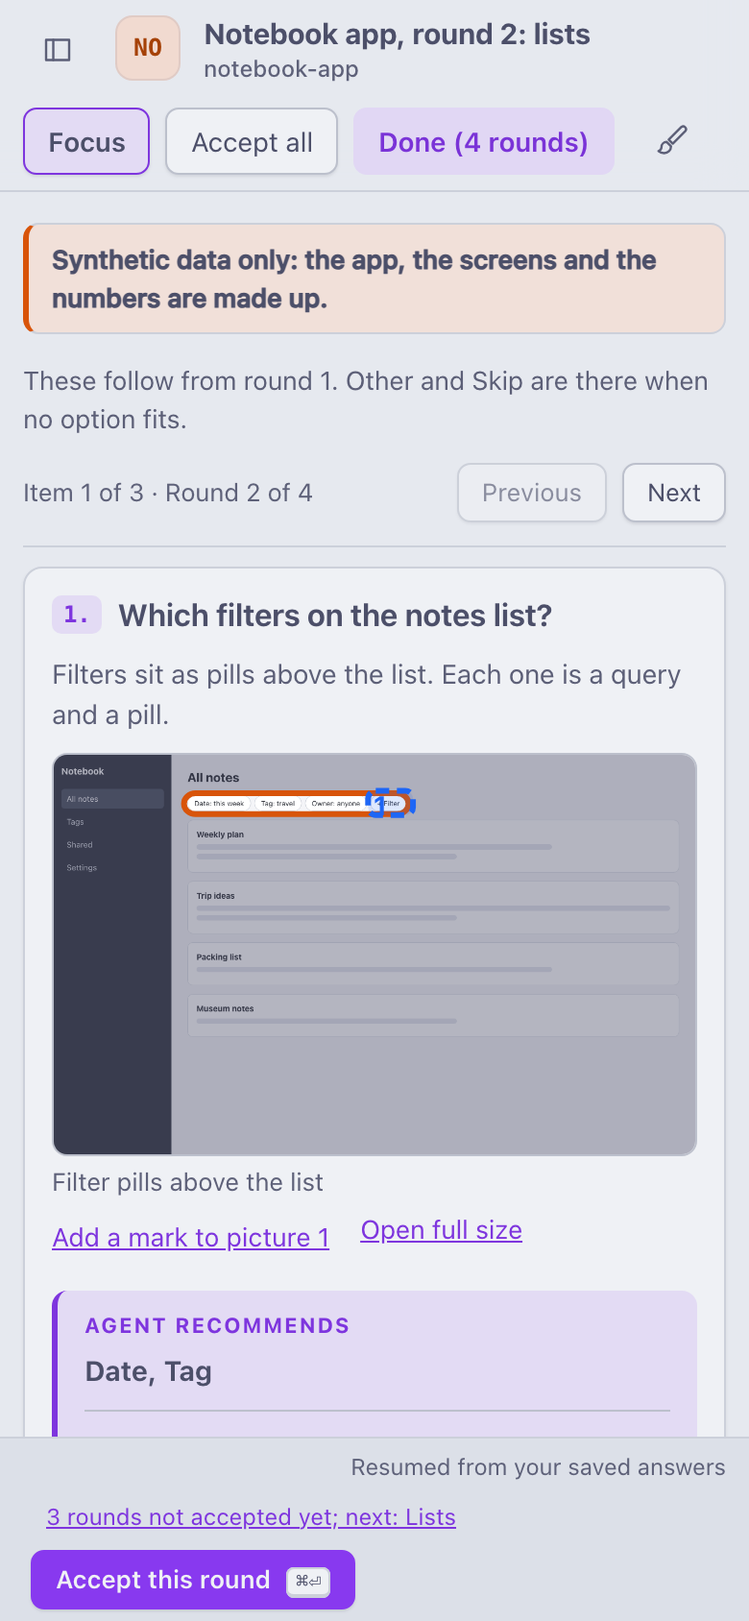
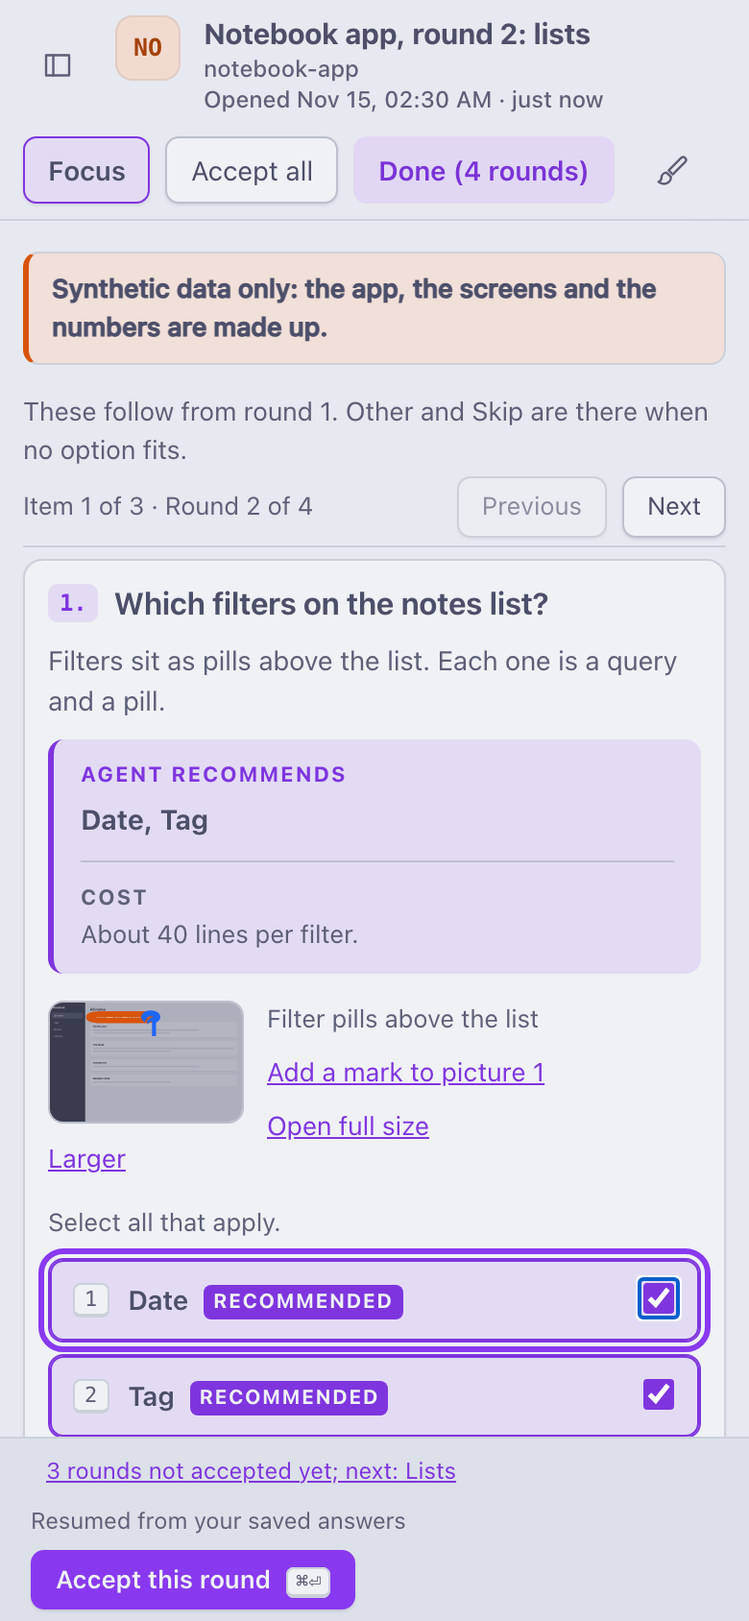
Put the question, the recommendation and the first option on a phone's first screen
On a phone in Focus an item now reads its question, the agent's
recommendation and cost, its commands, then its pictures as thumbnails,
then the options. CSS order does it (a flex fieldset, .q as
display:contents), so the DOM and Tab order stay as they were: the margin
holds nothing to tab to. Pictures that open full size are at most 180 px
high, two or more side by side. A picture that takes marks starts small
beside its caption, with a Larger / Smaller button (aria-expanded, its name
ending in the picture's number) that gives it the full width to draw on;
the button sits outside the mark tools, which Done disables. Wider screens
and a phone out of Focus are unchanged.

Decision: the user chose the toggle for pictures that take marks, so the
first option fits there too, over the CSS-only plan; the intro and the
notice stay on screen.

Decision: on a phone the round's title sits beside the project's monogram,
with the opening time on its own line. The title had wrapped onto a row of
its own and cost about 46 px. Not on the past-decisions page.

Decision: on a phone the key bar takes two rows, why Done waits first, then
the save state and Accept this round. Hungarian took three. The reason
moves up rather than Accept down, so focus order follows what is seen. Not
on the past-decisions page.

Context: measured at 390x844, main at scrollTop 0, the demo's round 2 in
a four-round folder, en and hu, with and without a project. The first
[…]

diff --git a/plugin/signoff/page.html b/plugin/signoff/page.html
@@ -207,6 +207,7 @@ button.icon svg{width:18px;height:18px}
 .marks .mark-num{fill:var(--mark);font:700 14px -apple-system,BlinkMacSystemFont,"Segoe UI",system-ui,sans-serif}
 .mark-tools{display:flex;gap:4px 16px;flex-wrap:wrap;font-size:13.5px}
 .mark-tools a{color:var(--accent)}
+.pic-size{display:none;justify-self:start;align-self:flex-start;font-size:13.5px}  /* shown on a phone in Focus */
 .mark-list .clabel{margin-top:14px}
 .mark-row{display:flex;flex-wrap:wrap;gap:8px;align-items:flex-start;margin:6px 0}
 .mark-row textarea{flex:1 1 200px;min-height:60px}
@@ -707,12 +708,40 @@ h3 .badge{margin:0;vertical-align:2px;white-space:nowrap}
 @media (max-width:760px){
   body.run>main{padding:0 12px 32px}
   body.run>header{flex-wrap:wrap}
+  body.run:not(.hist)>header .head-text{flex-basis:0}  /* beside the project's monogram, not on a row of its own */
+  body.run:not(.hist) #project{display:block;overflow:hidden;text-overflow:ellipsis;white-space:nowrap}  /* the time below */
+  body.run:not(.hist) #project:not(:empty)+#opened::before{content:none}
   body.run>header .actions{flex:1 0 100%;flex-wrap:wrap}
   body.run>header .progress{display:none}  /* the bar says which round waits */
   body.run .ib-fbar button:last-child{display:none}  /* Leave Focus: the pressed Focus button in the header */
   body.run .bar #status{order:0;flex:0 1 auto}
+  body.run:not(.hist) .bar #done-reason{order:-1;flex:1 0 100%}  /* two rows: why Done waits, then the state and Accept */
+  body.run:not(.hist) .bar .grow{order:1}
+  body.run:not(.hist) .bar .bar-acts{order:2}
   body.run .item{padding:14px}
-  body.run.focusing .rp:not(.at-start)>.context{display:none}}  /* with the first item only: the rest stay one screen */
+  body.run.focusing .ib-fbar{padding:4px 0}
+  body.run.focusing .item{margin-top:6px;padding:12px}
+  body.run.focusing .rp:not(.at-start)>.context{display:none}  /* with the first item only: the rest stay one screen */
+  /* Focus reads the question, the recommendation, then the commands and the pictures as thumbnails, so the
+     options start on the first screen. .margin holds nothing to tab to, so Tab still follows what is seen. */
+  body.run.focusing .item fieldset{display:flex;flex-direction:column}
+  body.run.focusing .item .q{display:contents}
+  body.run.focusing .item .desc{order:1}
+  body.run.focusing .item .margin{order:2;margin-top:0}
+  body.run.focusing .item .cmds{order:3}
+  body.run.focusing .item .shots{order:4;margin:0 0 10px;flex-flow:row wrap;align-items:flex-start}
+  body.run.focusing .item .b{order:5}
+  body.run.focusing .shots>figure{flex:1 1 100%}
+  body.run.focusing .shots>figure:not(.board):not(.marking){flex-basis:140px}
+  body.run.focusing .shots>figure:not(.board):not(.marking):not(:only-child){flex-grow:0}  /* two or more: small, in a row */
+  body.run.focusing .shots a.frame img{max-height:180px}
+  body.run.focusing figure.marking:not(.big){display:grid;grid-template-columns:minmax(0,30%) minmax(0,1fr);gap:4px 12px;
+    align-items:start}
+  body.run.focusing figure.marking:not(.big)>.frame{grid-column:1;grid-row:1/span 2}
+  body.run.focusing figure.marking:not(.big)>.mark-tools{grid-column:2;grid-row:2/span 2}
+  body.run.focusing figure.marking:not(.big)>.pic-size{grid-column:1;grid-row:3}
+  body.run.focusing figure.marking:not(.big) button.link{text-align:left}
+  body.run.focusing .pic-size{display:inline}}
 </style>
 </head>
 <body>
@@ -805,7 +834,9 @@ h3 .badge{margin:0;vertical-align:2px;white-space:nowrap}
       apOnly: 'This tab only: choose it in the inbox to open every Signoff page in it.',
       apFailed: 'Not kept: {m}', apOffline: 'Not kept: the inbox is not answering.', ownTheme: 'Signoff\'s own colours',
       attachMissing: 'Attachment not shown: {r}', lines: '{n} lines', line: '1 line', attachText: 'Attachment: {r}',
-      missing: 'Picture not shown: {r}', full: 'Open full size', addMark: 'Add a mark to picture {n}',
+      missing: 'Picture not shown: {r}', full: 'Open full size', larger: 'Larger', smaller: 'Smaller',
+      picture: 'picture {n}',
+      addMark: 'Add a mark to picture {n}',
       marks: 'Your marks', markHint: 'Draw a rectangle on a picture to point at something, or use the Add a mark button.',
       mark: 'Mark {n}', markOn: 'on picture {p}', markHandle: 'Mark {n} on picture {p}. Arrow keys move it, Shift and arrow keys resize it.',
       markComment: 'Comment on mark {n}', remove: 'Remove', noMarks: 'No marks.',
@@ -915,7 +946,9 @@ h3 .badge{margin:0;vertical-align:2px;white-space:nowrap}
       apOnly: 'Csak ezen a lapon. Válaszd ki az inboxban, és minden Signoff-oldal így nyílik.',
       apFailed: 'Nincs megtartva: {m}', apOffline: 'Nincs megtartva: az inbox nem válaszol.', ownTheme: 'a Signoff saját színei',
       attachMissing: 'A melléklet nem látható: {r}', lines: '{n} sor', line: '1 sor', attachText: 'Melléklet: {r}',
-      missing: 'A kép nem látható: {r}', full: 'Megnyitás teljes méretben', addMark: 'Jelölés hozzáadása a(z) {n}. képhez',
+      missing: 'A kép nem látható: {r}', full: 'Megnyitás teljes méretben', larger: 'Nagyobb', smaller: 'Kisebb',
+      picture: '{n}. kép',
+      addMark: 'Jelölés hozzáadása a(z) {n}. képhez',
       marks: 'A jelöléseid', markHint: 'Rajzolj téglalapot a képre, hogy megmutass valamit, vagy használd a Jelölés hozzáadása gombot.',
       mark: '{n}. jelölés', markOn: 'a(z) {p}. képen', markHandle: '{n}. jelölés a(z) {p}. képen. A nyilak mozgatják, a Shift és a nyilak átméretezik.',
       markComment: 'Megjegyzés a(z) {n}. jelöléshez', remove: 'Törlés', noMarks: 'Nincs jelölés.',
@@ -2543,7 +2576,19 @@ h3 .badge{margin:0;vertical-align:2px;white-space:nowrap}
       add.type = 'button';
       add.addEventListener('click', function () { addMark(ri, item, k, [40, 40, 20, 20]); });
       tools.append(add, full);
-      fig.append(tools);
+      // On a phone in Focus the picture starts small, so the options show; Larger gives it the width to draw on.
+      // Not in the tools: Done disables their buttons, and this one must still work then.
+      var size = el('button', 'link pic-size');
+      size.type = 'button';
+      var setSize = function (big) {  // the name says which picture: an item can have several
+        size.textContent = big ? L.smaller : L.larger;
+        size.setAttribute('aria-label', size.textContent + ': ' + fmt(L.picture, {n: k + 1}));
+        size.setAttribute('aria-expanded', String(big));
+      };
+      setSize(false);
+      size.addEventListener('click', function () { setSize(fig.classList.toggle('big')); });
+      fig.classList.add('marking');
+      fig.append(tools, size);
     }
     return fig;
   }

diff --git a/tests/e2e_browser.py b/tests/e2e_browser.py
@@ -8,7 +8,8 @@ single-use start link in headless Chrome over the DevTools protocol, and drives 
 First one round: a non-recommended pick and a comment, the summary block above Done quotes the comment and its
 filter works, Private (marked by the agent on one item, ticked by the user on the other) hides the comment in the
 summary and the Markdown copy, unticking the agent's mark survives a reload, one click on Done. A round done
-earlier shows Private without the untick hint. An item with criteria shows its facts as chips; the Cards / Table
+earlier shows Private without the untick hint. On a phone in Focus, the question, the recommendation and the first
+option of each demo item show before any scrolling. An item with criteria shows its facts as chips; the Cards / Table
 toggle shows the table, a pick there (by click and by number key) is saved and shows on the cards, and at 390 px
 the table scrolls in its own box. An attachment starts closed, opens on a click and shows the file's text
 exactly, with nothing rendered. The header names the project folder and the tab title starts with it; on the
@@ -312,6 +313,25 @@ ROUND_AGE = """(function () {
   return {time: t.checkVisibility() && t.textContent, datetime: t.dateTime, title: t.title,
     pill: p.checkVisibility() && p.textContent, note: !!n && n.checkVisibility() && n.textContent};
 })()"""
+# The item in Focus as it shows before any scrolling: main's box from the header's foot to the key bar's top, and
+# where the item's parts sit in it (null when the item has none).
+FIRST_SCREEN = """(function () {
+  var main = document.querySelector('body > main'), c = document.querySelector('.item.cur');
+  main.scrollTop = 0;
+  function box(e) { if (!e) return null; var r = e.getBoundingClientRect(); return {top: r.top, bottom: r.bottom}; }
+  return {item: c.dataset.item, top: main.getBoundingClientRect().top, foot: document.querySelector('.bar').getBoundingClientRect().top,
+    legend: box(c.querySelector('legend')), desc: box(c.querySelector('.desc')), margin: box(c.querySelector('.margin')),
+    frame: box(c.querySelector('.frame')), choices: box(c.querySelector('.choices')), option: box(c.querySelector('.choices .opt')),
+    links: Array.prototype.map.call(c.querySelectorAll('a.frame img'), function (i) { return i.getBoundingClientRect().height; }),
+    wide: document.documentElement.scrollWidth <= innerWidth};
+})()"""
+
+
+def in_order(b):
+    """The phone's reading order in Focus: the description, the recommendation, the pictures, then the options."""
+    seq = [b["legend"]["bottom"], b["desc"]["bottom"], b["margin"]["top"], b["margin"]["bottom"]]
+    seq += [b["frame"]["top"]] if b["frame"] else []
+    return all(x <= y + 0.5 for x, y in zip(seq + [b["choices"]["top"]], (seq + [b["choices"]["top"]])[1:]))
 
 
 def press(browser, key, code, vk, modifiers=0, text=""):
@@ -445,11 +465,8 @@ def run_phone(work):
                            ".textContent, document.querySelector('.tb-btn').getAttribute('aria-pressed')]" % shown)
         check(state == [True, 1, "1. tétel / %d" % len(data["items"]), "true"],
               "a phone should open in Focus on the first item: %r" % state)
-        place = browser.js("(function () { var c = document.querySelector('.item.cur'), q = c.querySelector('.q')"
-                           ".getBoundingClientRect(), m = c.querySelector('.margin').getBoundingClientRect(), o = c"
-                           ".querySelector('.choices').getBoundingClientRect(); return [m.top >= q.bottom, "
-                           "m.bottom <= o.top, m.left < q.right]; })()")
-        check(place == [True, True, True], "on a phone the margin sits between the question and the options: %r" % place)
+        place = browser.js(FIRST_SCREEN)
+        check(in_order(place), "on a phone in Focus: the text, the margin, the pictures, the options: %r" % place)
         text = browser.js("document.body.innerText")
         check("undefined" not in text and "Fókusz" in text and "Javasolt".upper() in text.upper(),
               "a Hungarian round should show Hungarian labels: %r" % text[:400])
@@ -474,6 +491,93 @@ def run_phone(work):
     finally:
         kill(server)
         kill(browser.proc)
+
+
+def run_first_screen(work):
+    """On a phone in Focus, before any scrolling, each item of the demo's round 2 shows its question, the agent's
+    recommendation and its first option between the header and the key bar: a picture that takes marks, one without
+    a picture, two pictures that open full size. In English and in Hungarian, whose labels are longer. With a context
+    line, the agent's mark and a command on the first item, the question and the recommendation still do."""
+    for lang, more in (("en", False), ("hu", False), ("en", True), ("hu", True)):
+        topic = work / ("2026-01-04-first-screen-%s%s" % (lang, "-more" if more else ""))
+        for name in ("mockups", "boards", "notes"):
+            shutil.copytree(str(DEMO / name), str(topic / name))
+        for n in range(1, 5):
+            data = json.loads((DEMO / ("round-%02d.json" % n)).read_text(encoding="utf-8"))
+            data["lang"] = lang
+            if n == 2:
+                items = data["items"]
+                if more:
+                    data["context"] = CONTEXT
+                    items[0].update(blocking=True, commands=COMMANDS[:1])
+                    del items[1:]
+            (topic / ("round-%02d.json" % n)).write_text(json.dumps(data), encoding="utf-8")
+        server, out, err, browser = serve(topic, str(work / ("profile-first-%s%s" % (lang, more))), size=(390, 844))
+        try:
+            wait_for("the page", lambda: browser.js("!!document.getElementById('r0-i0-o0')"))
+            browser.js("location.hash = 'focus=1/%s'" % items[0]["id"])
+            browser.call("Page.reload")
+            for k, item in enumerate(items):
+                if k:
+                    browser.click(".ib-fbar button:nth-of-type(2)")  # Next
+                wait_for("item %s in Focus" % item["id"], lambda: browser.js(
+                    "(function (c) { return !!c && c.dataset.item; })(document.querySelector('#panel-1 .item.cur'))")
+                    == item["id"])
+                wait_for("the pictures of %s" % item["id"], lambda: browser.js(
+                    "Array.prototype.every.call(document.querySelectorAll('.item.cur .frame img'), "
+                    "function (i) { return i.complete && i.naturalHeight > 0; })"))  # an unloaded picture is 0 px high
+                box = browser.js(FIRST_SCREEN)
+                # The options may start below the first screen only under commands and a long context.
+                end = box["margin"]["bottom"] if more else box["option"]["bottom"]
+                check(in_order(box) and box["legend"]["top"] >= box["top"] and end <= box["foot"],
+                      "%s, %s%s: the question, the recommendation%s on the first screen: %r"
+                      % (lang, item["id"], " with more" if more else "", "" if more else " and the first option", box))
+                if more:
+                    check(browser.js(CONTEXT_SHOWN) == CONTEXT and browser.js(
+                        "!!document.querySelector('.item.cur legend .badge.warn') && "
+                        "!!document.querySelector('.item.cur .cmds .md-code')"), "the context, the mark and a command show")
+                    continue
+                check(all(h <= 180 for h in box["links"]), "%s: a picture that opens full size is a thumbnail: %r"
+                      % (item["id"], box["links"]))
+                check(box["wide"], "nothing wider than the phone")
+                if item.get("marks"):
+                    # A picture that takes marks starts small; Larger gives it the item's width to draw on.
+                    size = ("(function () { var b = document.querySelector('.item.cur .pic-size'), f = b.closest('figure')"
+                            ".querySelector('.frame'), s = b.closest('.shots'); return [b.textContent, "
+                            "b.getAttribute('aria-expanded'), Math.round(f.getBoundingClientRect().width), "
+                            "Math.round(s.getBoundingClientRect().width)]; })()")
+                    labels = {"en": ("Larger", "Smaller", ": picture 1"), "hu": ("Nagyobb", "Kisebb", ": 1. kép")}[lang]
+                    small = browser.js(size)
+                    check(small[:2] == [labels[0], "false"] and small[2] < small[3] / 2,
+                          "%s: the picture with marks starts small: %r" % (lang, small))
+                    check(ax_name(browser, ".item.cur .pic-size") == labels[0] + labels[2],
+                          "%s: Larger names its picture: %r" % (lang, ax_name(browser, ".item.cur .pic-size")))
+                    # A mark drawn on the small picture is a mark like any other.
+                    layer = browser.js("(function () { var r = document.querySelector('.item.cur svg.marks')"
+                                       ".getBoundingClientRect(); return [r.x, r.y, r.width, r.height]; })()")
+                    x0, y0 = layer[0] + layer[2] * 0.3, layer[1] + layer[3] * 0.3
+                    x1, y1 = layer[0] + layer[2] * 0.7, layer[1] + layer[3] * 0.7
+                    for kind, x, y in (("mousePressed", x0, y0), ("mouseMoved", x1, y1), ("mouseReleased", x1, y1)):
+                        browser.call("Input.dispatchMouseEvent", type=kind, x=x, y=y, button="left", clickCount=1,
+                                     buttons=0 if kind == "mouseReleased" else 1)
+                    wait_for("the mark drawn on the thumbnail", lambda: browser.js(
+                        "document.querySelectorAll('.item.cur .mark-row').length === 1 && "
+                        "document.querySelectorAll('.item.cur svg.marks .mark').length === 1"))
+                    browser.click(".item.cur .pic-size")
+                    big = browser.js(size)
+                    check(big[:2] == [labels[1], "true"] and big[2] >= big[3] - 2
+                          and ax_name(browser, ".item.cur .pic-size") == labels[1] + labels[2],
+                          "%s: Larger gives the picture the item's width: %r" % (lang, big))
+                    check(browser.js("document.activeElement === document.querySelector('.item.cur .pic-size')"),
+                          "the toggle keeps focus")
+                    press(browser, "Enter", "Enter", 13, text="\r")
+                    check(browser.js(size) == small, "%s: Smaller gives the thumbnail back: %r" % (lang, browser.js(size)))
+        except E2EError:
+            sys.stderr.write("--- Signoff stderr ---\n" + "".join(err))
+            raise
+        finally:
+            kill(server)
+            kill(browser.proc)
 
 
 def run_single(work):
@@ -2555,6 +2659,7 @@ def run():
     (work / ".git").mkdir()  # the project root, so the header can name it
     run_old_rounds(work)
     run_phone(work)
+    run_first_screen(work)
     run_single(work)
     run_history(work)
     run_readonly(work)
@@ -2617,6 +2722,12 @@ def run():
         press(browser, "f", "KeyF", 70, text="f")
         check(browser.js(cards) == [items[0]["id"]] and browser.js("document.querySelector('.ib-fbar span').textContent")
               == "Item 1 of %d · Round 1 of 2" % len(items), "f should show the first item alone: %r" % browser.js(cards))
+        # Focus on a wide screen keeps the margin to the right and the picture at full size: no phone rules.
+        wide = browser.js("(function () { var c = document.querySelector('#panel-0 .item.cur'), "
+                          "m = c.querySelector('.margin'), b = c.querySelector('.pic-size'); return [m.getBoundingClientRect()"
+                          ".left >= c.querySelector('.desc').getBoundingClientRect().right, !!b && b.checkVisibility(), "
+                          "c.querySelector('.frame img').getBoundingClientRect().height > 180]; })()")
+        check(wide == [True, False, True], "Focus at 1280 px: the margin right, no Larger, the picture full: %r" % wide)
         press(browser, "j", "KeyJ", 74, text="j")
         check(browser.js(cards) == [items[1]["id"]] and browser.js(
               "document.querySelector('.outline [aria-current=true] .nl').textContent") == items[1]["title"],
@@ -2690,6 +2801,9 @@ def main():
           "recommendations and answers in light and dark; a phone opens in Focus, Next, the margin above the options, "
           "Esc, Hungarian labels, an old round's time, pill and note in Hungarian, its context with the first item "
           "only; "
+          "on a phone in Focus each item of round 2 shows its question, recommendation and first option before any "
+          "scrolling, in English and Hungarian, its pictures as thumbnails and the one that takes marks small with "
+          "Larger and Smaller; "
           "an old done round shows its time with no warning; "
           "1 round, its opening time in the header, comment quoted above Done, filter, Private hides it, one-click Done, exit 0; "
           "project name in the header and the tab title; --history search finds answers and comments, never a private one, "

diff --git a/docs/page.md b/docs/page.md
@@ -2,7 +2,7 @@
 
 <picture>
   <source media="(prefers-color-scheme: dark)" srcset="../media/page-dark.png">
-  <img alt="A Signoff page with the project's name and monogram in the header and four rounds in a sidebar, the first accepted and the second open, its three items listed under them; a mockup with the agent's orange box and the user's blue mark, the agent's recommendation and the cost in the margin, and the options under the picture with the two recommended ones and one more ticked" src="../media/page-light.png">
+  <img alt="A Signoff page with the project's name and monogram and when the round was opened in the header, and four rounds in a sidebar, the first accepted and the second open, its three items listed under them; a mockup with the agent's orange box and the user's blue mark, the agent's recommendation and the cost in the margin, and the options under the picture with the two recommended ones and one more ticked" src="../media/page-light.png">
 </picture>
 
 - **The project's name** and its two-letter monogram (the same as in the inbox) start the header, and the name
@@ -33,7 +33,13 @@
   the open round to the recommendations, comments untouched; clicking it again undoes that, until you change an
   item's options.
 - **Focus** (the button in the header, or `f`) shows one item at a time, with Previous and Next; the round's last
-  box and its Accept or Done come after the last item. Esc leaves it. A phone opens the page in Focus.
+  box and its Accept or Done come after the last item. Esc leaves it. A phone opens the page in Focus. There an
+  item reads its question, the recommendation, its commands, then its pictures as thumbnails, then the options, so
+  the options start on the first screen. The question and the recommendation stay on the first screen; with
+  commands or a long context the options start below. Tap a thumbnail to open it full size; a picture you can mark
+  starts small beside its caption, and **Larger** (and back **Smaller**) gives it the full width to draw on. The
+  header keeps the round's title beside the project's mark, with the opening time on a line of its own, and the bar
+  at the foot takes two rows: why Done waits, then the save state and **Accept this round**.
 - **Other and Skip** appear where the agent allows them: Other with its own text field, Skip on its own.
 - **A number.** Where the answer is a number, the item has a slider and a number field that move together,
   between the agent's lowest and highest value and on its step, with the unit beside them. The recommended
@@ -131,4 +137,4 @@ themes), the page uses a black and white high-contrast set instead. The palettes
 Its own labels are in English, or in Hungarian when the decisions file's `lang` says `hu`; your content can be
 in any language.
 
-<img alt="The same page at phone width, in Focus: the header, the notice, item 1 of 3 with Previous and Next, the question and its mockup with the mark, the recommendation under it, and Accept this round at the bottom" src="../media/page-phone.png" width="320">
+<img alt="The same page at phone width, in Focus: the header with the project and when the round was opened, the notice, item 1 of 3 with Previous and Next, the question, the recommendation and cost under it, the mockup with the mark small beside its caption with Larger under it, the first options, and Accept this round at the bottom" src="../media/page-phone.png" width="320">

diff --git a/AGENTS.md b/AGENTS.md
@@ -548,7 +548,10 @@ control socket, `inbox.json` or `state.json` shows there too. CI does not run th
   for both pages). The rounds stay a WAI-ARIA tablist, vertical, in the sidebar (Up and Down as well as Left and
   Right), each with its state as a glyph and a word; the open round's items are listed under them. Each item is
   its question, text and pictures, a margin with the recommendation (the recommended labels, and the option's detail when one is recommended)
-  and the cost (between the question and the options under 1100 px), then the options, numbered for the 1 to 9
+  and the cost (between the question and the options under 1100 px; in Focus at 760 px or less, CSS order puts it
+  right after the text, then the commands, the pictures as thumbnails at most 180 px high, and a picture that takes
+  marks small beside its caption with a Larger / Smaller button, `aria-expanded`, its name ending in the picture's
+  number), then the options, numbered for the 1 to 9
   keys. A number item has instead a native range and number input bound together (each with a name, the range
   with `aria-valuetext` and the unit), the range holding the value that is saved, and Skip as a checkbox with no
   digit key; the digits do nothing there, and j, k and f still work while the range has focus. An item's commands (between its text and pictures) are the inbox's code blocks (`codeBlock`, above the

diff --git a/CHANGELOG.md b/CHANGELOG.md
@@ -2,6 +2,7 @@
 
 ## Unreleased
 
+- **A phone's first screen:** on a phone in Focus, an item now reads its question, the agent's recommendation and cost, its commands, then its pictures as thumbnails (a tap opens one full size), so the first option shows without scrolling. A picture you can mark starts small beside its caption, and **Larger** gives it the full width to draw on (**Smaller** takes it back). The header keeps the title beside the project's mark, with the opening time on its own line, and the bar at the foot takes two rows. Wider screens, and a phone out of Focus, are unchanged.
 - **One-line fields in the Markdown copy:** a title, group, option label, unit, caption or attachment name holding a CR, U+2028, U+2029, NEL, VT, FF or FS/GS/RS character no longer splits its heading or list line in the copy; each such break shows as a space. Rounds with such text still load.
 
 - **A round's age:** a round's page says when the round was asked (`Opened <date> · 3 days ago`) after the project's name in the header, from the round file's time, which a new run on the same rounds keeps. An open round 2 days old or more also says **Open 2+ days** there and, at the top of the round, that its questions may be out of date; its row in the inbox gets the same words, and its open row says how long. The row's time and order still follow the run's start. No file format changes.
